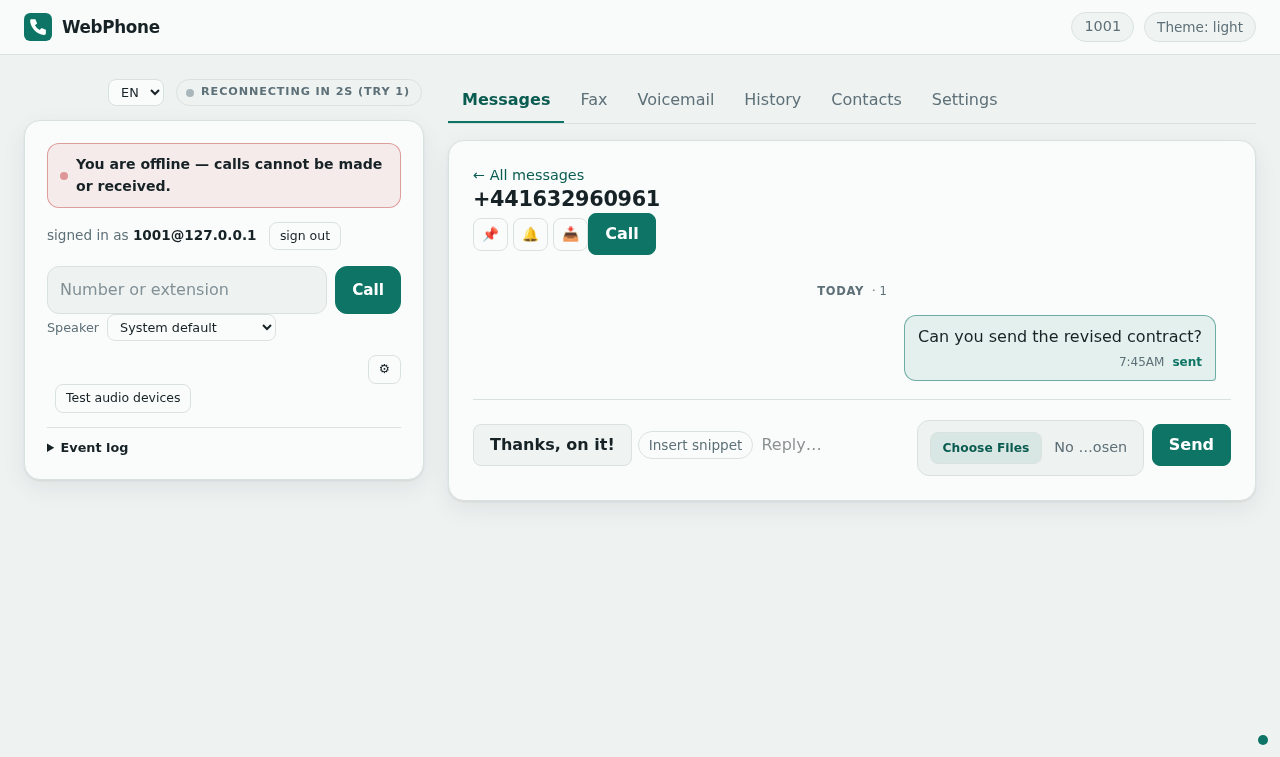
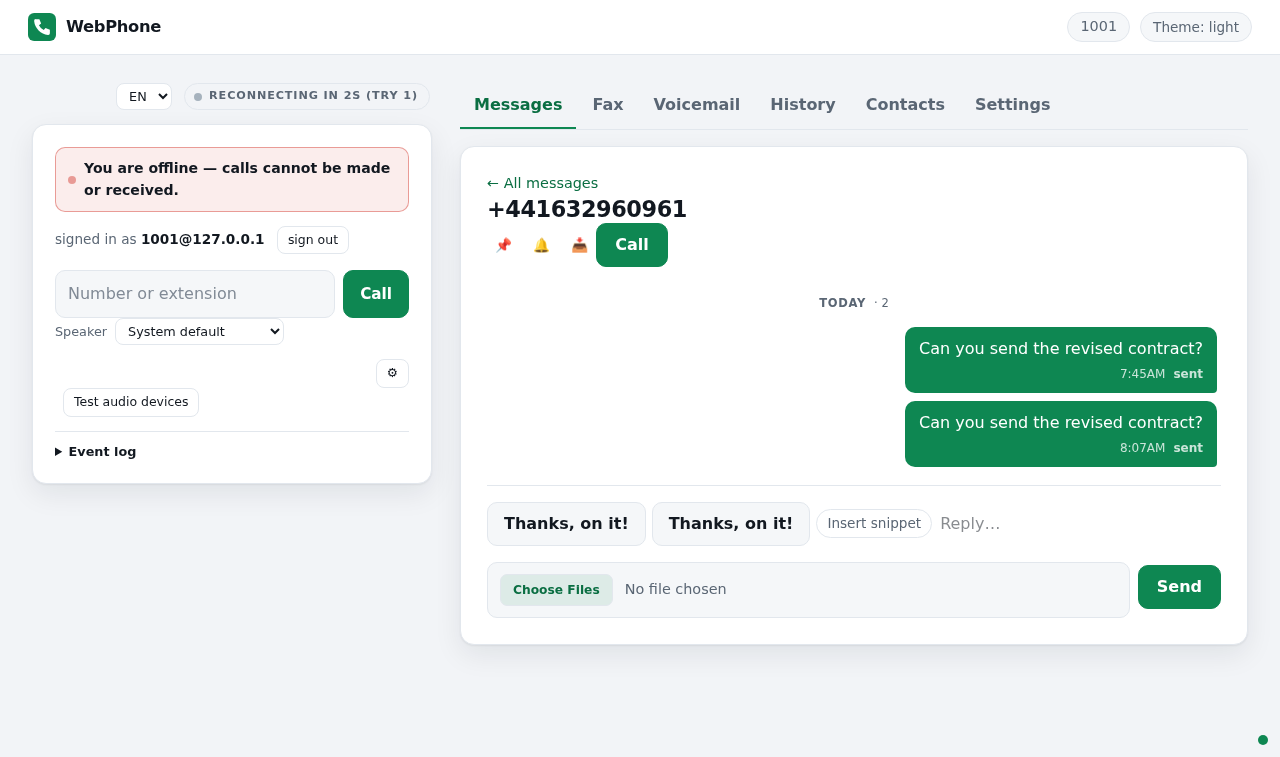
chore: auto-commit 8 changed file(s) (heuristic)

diff --git a/internal/web/assets/app.css b/internal/web/assets/app.css
@@ -1445,6 +1445,43 @@ select:focus-visible {
   opacity: 0.72;
 }
 
+/* A failed send repaints the whole bubble in the danger voice — the
+ * strongest honest signal the transcript can give. Applies to both the
+ * server-rendered failure (:has) and the optimistic one (.wp-opt-failed). */
+.wp-bubble.wp-out:has(.wp-status-failed),
+.wp-bubble.wp-opt-failed {
+  background: var(--danger);
+  border-color: transparent;
+  color: var(--on-accent);
+}
+
+.wp-bubble.wp-out:has(.wp-status-failed) .wp-status,
+.wp-bubble.wp-out:has(.wp-status-failed) .wp-failed-detail,
+.wp-bubble.wp-opt-failed .wp-status,
+.wp-bubble.wp-opt-failed .wp-failed-detail {
+  color: inherit;
+}
+
+.wp-bubble.wp-out:has(.wp-status-failed) .wp-bubble-meta,
+.wp-bubble.wp-opt-failed .wp-bubble-meta {
+  color: color-mix(in srgb, var(--on-accent) 80%, transparent);
+}
+
+/* Retry/Dismiss keep their outline shape but invert to stay readable
+ * on the danger fill. */
+.wp-bubble.wp-out:has(.wp-status-failed) .wp-mini,
+.wp-bubble.wp-opt-failed .wp-mini {
+  color: var(--on-accent);
+  border-color: color-mix(in srgb, var(--on-accent) 55%, transparent);
+}
+
+.wp-bubble.wp-out:has(.wp-status-failed) .wp-mini:hover,
+.wp-bubble.wp-opt-failed .wp-mini:hover {
+  background: var(--on-accent);
+  color: var(--danger);
+  border-color: var(--on-accent);
+}
+
 .wp-bubble-body {
   margin: 0;
   overflow-wrap: anywhere;
@@ -1527,9 +1564,10 @@ select:focus-visible {
   opacity: 0.75;
 }
 
-.wp-bubble.wp-opt-failed {
-  border-color: var(--danger);
-  background: color-mix(in srgb, var(--danger) 14%, var(--surface-2));
+/* Pending outbound: the dashed outline rides inverted ink, not the
+ * invisible transparent border-color of the filled bubble. */
+.wp-bubble.wp-out.wp-opt {
+  border-color: color-mix(in srgb, var(--on-accent) 55%, transparent);
 }
 
 /* Failed-send recovery (M17 J3/J4): Retry and Dismiss live inside the

diff --git a/internal/web/assets/island/style.css b/internal/web/assets/island/style.css
@@ -231,7 +231,7 @@ input {
   font-size: 1rem;
   font-family: inherit;
   color: var(--text);
-  background: var(--bg);
+  background: var(--surface-2);
   border: 1px solid var(--border);
   border-radius: var(--radius);
   transition: border-color 120ms ease;
